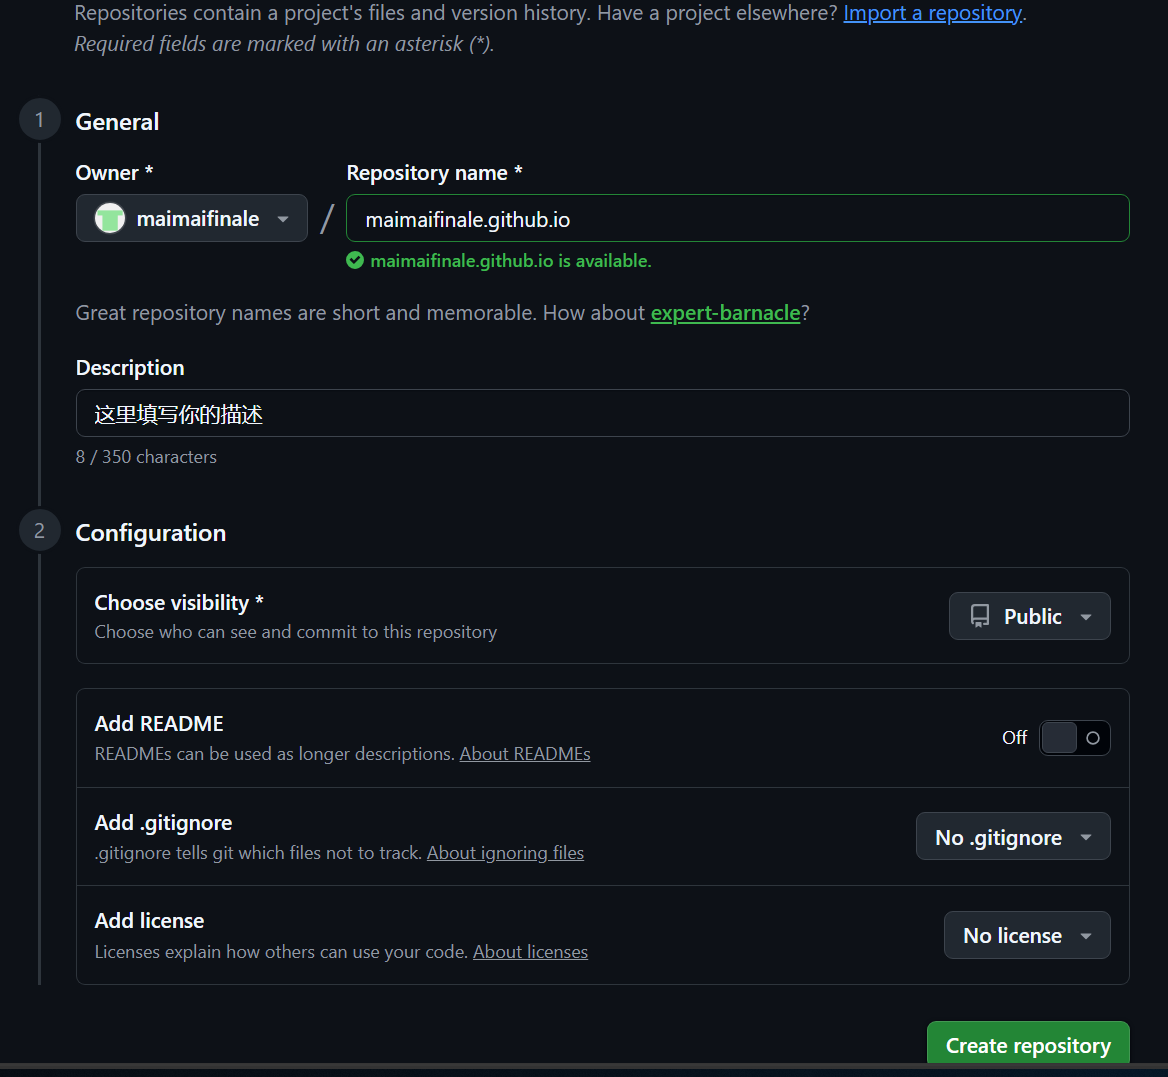
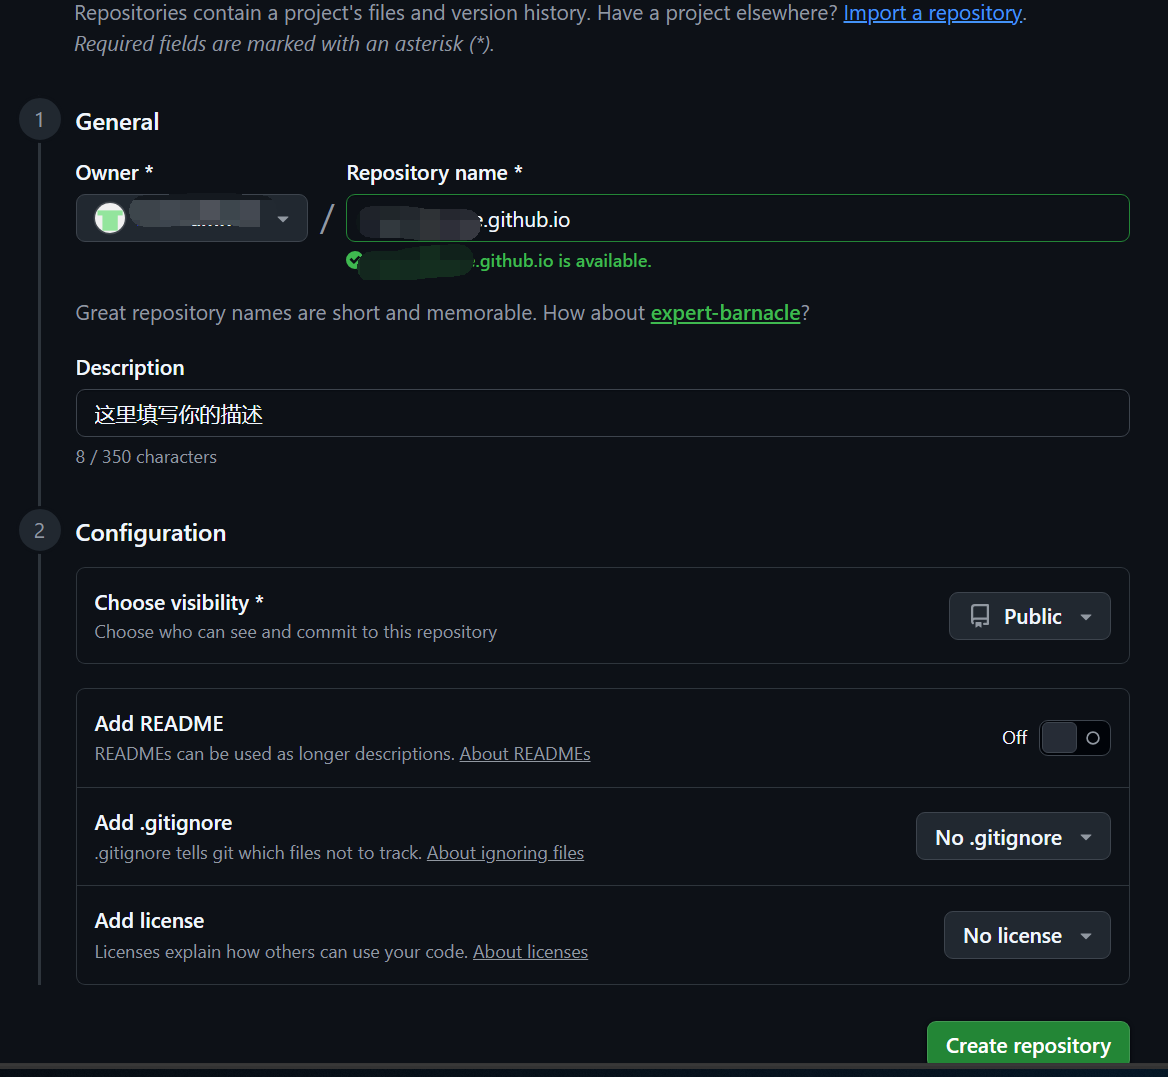
githubpage4

Changed region(s): [[0.3082, 0.1838, 0.4315, 0.2758], [0.0925, 0.1838, 0.2466, 0.2145]]

diff --git a/src/content/posts/Blog→Github/index.md b/src/content/posts/Blog→Github/index.md
@@ -19,7 +19,7 @@ permalink: "Blog部署"
 实在难以攻克可以参考<a href="https://docs.mizuki.mysqil.com/guide/deploy/Vercel/" target="_blank" rel="noopener noreferrer">部署到Vercel</a>(点击可访问外部链接)这个相对来说比较简单。
 
 ## Github仓库创建、绑定和初提交
-通过github主页左上角NEW或<a href="https://github.com/new" target="_blank" rel="noopener noreferrer">Github-New repository</a>(点击可访问外部链接)进入repository(仓库)创建界面。对于部署在github pages上的仓库,要求仓库名为:`用户名.github.io`*(例如maimaifinale.github.io)*  
+通过github主页左上角NEW或<a href="https://github.com/new" target="_blank" rel="noopener noreferrer">Github-New repository</a>(点击可访问外部链接)进入repository(仓库)创建界面。对于部署在github pages上的仓库,要求仓库名为:`用户名.github.io`*(例如patchouli.github.io)*  
 Description中可以填写的对仓库项目的描述,剩下保持默认即可,仓库需要公开且不用添加README等。
 ![图片寄了,也可能是网络问题](./images/repository.png)
 创建完仓库后,Github会显示一个教程界面,首先我们需要先调整传输协议为SSH。SSH拥有免去重复验证、更高的安全性、网络环境适应性等特点。我们先前已经对SSH配置完毕。
@@ -30,43 +30,122 @@ github网页上的内容先放一边,但还是需要重点关注最下方的`...
 1. 本地仓库(自己电脑上的文件夹)初始化与分支命名
 2. 配置好remote远程仓库(可以认为是github仓库)
 3. 正式修改本地仓库
-4. 提交本地修改至远程
+4. 提交本地修改至远程  
 
-先对Blogtest下的Muziki进行Git Bash,根据自身情况输入以下代码进行信息查询或更改:
-![图片寄了,也可能是网络问题](./images/repository3.png)
-```bash
-git init    #无法使用其他git指令时,说明未将文件夹初始化为Git仓库,需要先初始化
-git branch -m main  #必须为main,现在github默认仓库分支为main,便于提交管理
-```
+### 详细操作流程
+1. 先对Blogtest下的Muziki进行Git Bash,根据自身情况输入以下代码进行信息查询或更改:
 
-```bash
-git remote -v   #查看先前是否绑定过远程仓库
-git remote set-url origin git@github.com:...    #若已绑定其他origin(通过指令下载的mizuki)
-git remote add origin git@github.com:...    #若未绑定其他origin(直接下载的mizuki.zip)
-```
->其中git@github.com:...直接复制github仓库网页上的内容。  
-其中origin只是个名字,你可以随意更改,但一般都是以origin命名。  
-(当然你也可以选择origin绑mizuki的git,origin1绑定自己的git,但是后续提交时比较麻烦)
+  ![图片寄了,也可能是网络问题](./images/repository3.png)
+  ```bash
+  git init    #无法使用其他git指令时,说明未将文件夹初始化为Git仓库,需要先初始化
+  git branch -m main  #必须为main,现在github默认仓库分支为main,便于提交管理
+  ```
 
-```bash
-git status  #检查本地状态,例如修改增减了哪些文件
-git add .   # add .(英文句号)将工作区修改添加到暂存区,点代表当前目录所有修改
-git commit -m "随意描述信息"    #将暂存区内容正式提交到本地仓库
-```
-其中`git add .`可以选择`git status`查到的单个文件,如`git add patchouli.txt`  
-其中`git commit ...`中-m是message的缩写,用于说明这次提交改动了什么,""中填写你的说明
+2. 对remote远程仓库进行配置
+  ```bash
+  git remote -v   #查看先前是否绑定过远程仓库
+  git remote set-url origin git@github.com:...    #若已绑定其他origin(通过指令下载的mizuki)
+  git remote add origin git@github.com:...    #若未绑定其他origin(直接下载的mizuki.zip)
+  ```
+  其中git@github.com:...直接复制github仓库网页上的内容。  
+  其中origin只是个名字,你可以随意更改,但一般都是以origin命名,最后可以`git remote -v`再次查询  
+  (当然你也可以选择origin绑mizuki的git,origin1绑定自己的git,但是后续提交时比较麻烦)
+  ![图片寄了,也可能是网络问题](./images/repository4.png)
 
-```bash
-git push -u origin main #推送本地仓库到github
-```
-***后续提交指令只需`git push origin main`即可***
-根据github仓库网页说明,此步为最后一步,刷新网页后界面会更改(此时action会进行部署deploy报错,可以选择无视)  
+3. 修改本地仓库
+  ```bash
+  git status  #检查本地状态,例如修改增减了哪些文件
+  git add .   # add .(英文句号)将工作区修改添加到暂存区,点代表当前目录所有修改
+  git commit -m "随意描述信息"    #将暂存区内容正式提交到本地仓库
+  ```
+  其中`git status`运行后会出现很多红色文件,这是正常的。
+  其中`git add .`也可以选择`git status`查到的单个文件,如`git add patchouli.txt`,这一步可能会有部分警告,是因为换行的代码不一致,没有影响。
+  其中`git commit ...`中-m是message的缩写,用于说明这次提交改动了什么,""中填写你的说明  
+  第一次提交commit时,git并不知道你是谁,需要输入你的用户名与邮箱,***`绑定好后再commit一次`***。
+  ```bash
+  git config --global user.email "you@example.com"  #填写你的github邮箱,如114514@qq.com
+  git config --global user.name "Your Name" #填写你的github用户名,如patchouli
+  ```
+  ![图片寄了,也可能是网络问题](./images/repository5.png)
+  ![图片寄了,也可能是网络问题](./images/repository6.png)
+
+4. 提交文件至remote
+  ```bash
+  git push -u origin main #推送本地仓库到github
+  ```
+  ***后续提交指令只需`git push origin main`即可***
+  根据github仓库网页说明,此步为最后一步,首次提交可能会比较慢。
+  ![图片寄了,也可能是网络问题](./images/repository7.png)
+  此时刷新github网页后界面会变化(此时action会进行***部署deploy报错,先选择无视***)
+  ![图片寄了,也可能是网络问题](./images/repository8.png)
+
 
 ## Github pages部署
 - 修改astro.config.mjs中的配置文件设置base
-````javascript
+```javascript
 export default defineConfig({
-  site: 'https://你的名字.github.io',   //设置site为你的专属地址,即https://yourname.github.io
+  site: 'https://你的名字.github.io',   //设置site为你的专属地址,如https://patchouli.github.io
   base: "/",    //设置base为/
   trailingSlash: "always",
 });
+```
+- 添加deploy.yml文件
+(可能你的项目中已经有该文件,请先查看)
+在.github/workflows/目录下创建一个名为`deploy.yml`的文件:
+在workflows目录下右键新建txt文件,写入内容后选中重命名(快捷键F2)为`deploy.yml`
+```bash
+name: Deploy to GitHub Pages
+on:
+  # 每次推送到 `main` 分支时触发这个“工作流程”
+  # 如果你使用了别的分支名，请按需将 `main` 替换成你的分支名
+  push:
+    branches: [ main ]
+  # 允许你在 GitHub 上的 Actions 标签中手动触发此“工作流程”
+  workflow_dispatch:
+# 允许 job 克隆 repo 并创建一个 page deployment
+permissions:
+  contents: read
+  pages: write
+  id-token: write
+jobs:
+  build:
+    runs-on: ubuntu-latest
+    steps:
+      - name: Checkout your repository using git
+        uses: actions/checkout@v4
+      - name: Install, build, and upload your site
+        uses: withastro/action@v3
+        # with:
+          # path: . # 存储库中 Astro 项目的根位置。（可选）
+          # node-version: 20 # 用于构建站点的特定 Node.js 版本，默认为 20。（可选）
+          # package-manager: pnpm@latest # 应使用哪个 Node.js 包管理器来安装依赖项和构建站点。会根据存储库中的 lockfile 自动检测。（可选）
+  deploy:
+    needs: build
+    runs-on: ubuntu-latest
+    environment:
+      name: github-pages
+      url: ${{ steps.deployment.outputs.page_url }}
+    steps:
+      - name: Deploy to GitHub Pages
+        id: deployment
+        uses: actions/deploy-pages@v4
+```
+![图片寄了,也可能是网络问题](./images/githubaction.png)
+
+- 配置Github Action
+  点击当前`用户名.io`项目的settings,找到Pages,并修改Build and deployment中的source为GitHub Actions
+  ![图片寄了,也可能是网络问题](./images/githubaction2.png)
+  ![图片寄了,也可能是网络问题](./images/githubaction3.png)
+
+## Github再次提交
+至此已经完成所有配置需求,修改任意文件:如config.ts下的语言为zh_CN(再次提交需有所修改)
+```javascript
+const SITE_LANG = "zh_CN"; // 语言代码，例如：'en', 'zh_CN', 'ja' 等。
+```
+最后运行修改提交代码进行上传
+```bash
+git status  #检查当前工作区的状态，确认哪些文件被修改或新增
+git add . #将工作区的所有修改添加到暂存区，准备进行归档
+git commit -m "信息"  #将暂存区的内容正式提交到本地仓库，并添加本次改动的备注
+git push origin main  #将本地仓库的修改正式推送到远程的 main 分支
+```
